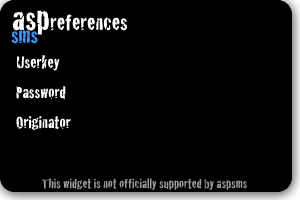
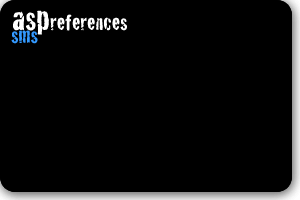
fixed different issues to work with leopard

diff --git a/aspsms.wdgt/aspsms.js b/aspsms.wdgt/aspsms.js
@@ -80,11 +80,11 @@ function updateCounter()
 	curr_left = curr_sms*max_len - len;
 	var lbl_elem = document.getElementById('num-left-label');
 	if (curr_sms > 0)
-	{
+    {
 		lbl_elem.innerHTML = curr_sms + ' SMS / ' + curr_left + ' left';
-	}
-	else
+	} else {
 		lbl_elem.innerHTML = 'Please enter a message';
+    }
 }
 
 /**
@@ -130,7 +130,7 @@ function send()
 	var msg_part = null;
 	var start = 0;
 	var done = 0;
-	var statusmsg = ''
+	var statusmsg = '';
 	
 	/* Show progress indicator */
 	document.getElementById('indicator').style.display='block';
@@ -138,59 +138,50 @@ function send()
 	rcp_elem.setAttribute("disabled",true);
 
 	/* Send messages */
-	/*for (var i = 0; i < curr_sms; i++)
-	{*/
-		msg_part = msg /*.substr(start,max_len);*/
-	
-		xmlhttp = new XMLHttpRequest();
-		xmlhttp.open("POST", "http://xml1.aspsms.com:5061/xmlsvr.asp", false);
- 		
- 		var xmltext = "<?xml version='1.0' encoding='ISO-8859-1'?>" +
-			"<aspsms>" +
-				"<Userkey>" + login + "</Userkey>" +
-				"<Password>" + passwd + "</Password>" +
-				"<Originator>" + origin + "</Originator>" +
-				"<AffiliateId>123415</AffiliateId>" +
-				"<Recipient>" +
-					"<PhoneNumber>" + to + "</PhoneNumber>" +
-				"</Recipient>" +
-				"<MessageData>" + encode(msg_part) + "</MessageData>" +
-				"<Action>SendTextSMS</Action>" +
-			"</aspsms>";
- 		
-		xmlhttp.setRequestHeader("Content-Type", "text/xml");
-		xmlhttp.send(xmltext);
-		
-		/*if (curr_sms > 1)
-		{
-			statusmsg = 'Sending message ' + (i+1) + '...';
-		}
-		else
-		{*/
-			statusmsg = 'Sending message...';
-		/*}*/
-		
-		while (xmlhttp.readyState != 4)
-		{
-			showMessage(statusmsg,true);
-		}
-		
-		var xmldoc = (new DOMParser()).parseFromString(xmlhttp.responseText,"text/xml");
-		var errorCode = xmldoc.getElementsByTagName("ErrorCode").item(0).firstChild.nodeValue;
-  		var errorDescription = xmldoc.getElementsByTagName("ErrorDescription").item(0).firstChild.nodeValue;
-		
-		if (errorCode == 1)
-		{
-			done++;
-		}
-		else
-		{
-			showError(errorDescription);
-			break;
-		}
-		
-		start += max_len;
-	/*}*/
+    msg_part = msg;
+
+    xmlhttp = new XMLHttpRequest();
+    xmlhttp.open("POST", "http://xml1.aspsms.com:5061/xmlsvr.asp", false);
+    
+    var xmltext = "<?xml version='1.0' encoding='ISO-8859-1'?>" +
+        "<aspsms>" +
+            "<Userkey>" + login + "</Userkey>" +
+            "<Password>" + passwd + "</Password>" +
+            "<Originator>" + origin + "</Originator>" +
+            "<AffiliateId>123415</AffiliateId>" +
+            "<Recipient>" +
+                "<PhoneNumber>" + to + "</PhoneNumber>" +
+            "</Recipient>" +
+            "<MessageData>" + encode(msg_part) + "</MessageData>" +
+            "<Action>SendTextSMS</Action>" +
+        "</aspsms>";
+    
+    xmlhttp.setRequestHeader("Content-Type", "text/xml");
+    xmlhttp.send(xmltext);
+    
+    statusmsg = 'Sending message...';
+    
+    while (xmlhttp.readyState != 4)
+    {
+        showMessage(statusmsg,true);
+    }
+    
+    var xmldoc = (new DOMParser()).parseFromString(xmlhttp.responseText,"text/xml");
+    var errorCode = xmldoc.getElementsByTagName("ErrorCode").item(0).firstChild.nodeValue;
+    var errorDescription = xmldoc.getElementsByTagName("ErrorDescription").item(0).firstChild.nodeValue;
+    
+    if (errorCode == 1)
+    {
+        done++;
+    }
+    else
+    {
+        showError(errorDescription);
+        return;
+    }
+    
+    start += max_len;
+
 	if (done < 1)
 	{
 		msg_elem.style.color = errorColor;
@@ -451,7 +442,7 @@ function ab_startSearch()
 	var results = searchForNumber(rcp_elem.value);
 	if (results.length > 0)
 	{
-		showMessage(results[0].name)
+		showMessage(results[0].name);
 		var number = results[0].number;
 		number = _strRemove(number,' ');
 		number = _strRemove(number,'(');
@@ -493,16 +484,17 @@ function searchForNumber(str)
 		{
 			showError("Addressbook error!",true);
 		}
-	}
-	else
+	} else {
 		return null;
+    }
 }
 
 function _turnOutputToNumbers(str)
 {
 	var array = new Array();
-	if (!str)
+	if (!str) {
 		return array;
+    }
 	
 	var lines = str.split("\n");
 	

diff --git a/aspsms.wdgt/aspsms.html b/aspsms.wdgt/aspsms.html
@@ -24,25 +24,25 @@
 	<body onload="init()">
 			<div id="front">
 				<div id="infoButton"></div>
-				<div class="label" id="recipients-label"><!-- Recipient --></div>
+				<div class="label" id="recipients-label">Recipient</div>
 				<input type="text" id="recipients"/>
 				<img src="ab-icon.png" id="ab-icon"/>
-				<div class="label" id="message-label"><!-- Message --></div>
+				<div class="label" id="message-label">Message</div>
 				<textarea name="textarea" id="message"></textarea>
 				<div class="small-label" id="num-left-label"></div>
 				<img id="indicator" src="Indicator.gif"/>
 				<div id="send"></div>
 			</div>
 			<div id="back" style="display: none">
-				<div class="label" id="username-label"><!-- Userkey --></div>
+				<div class="label" id="username-label">Userkey</div>
 				<input type="text" id="username"/>
-				<div class="label" id="password-label"><!-- Password --></div>
+				<div class="label" id="password-label">Password</div>
 				<input type="password" id="password"/>
-				<div class="label" id="originator-label"><!-- Originator --></div>
+				<div class="label" id="originator-label">Originator</div>
 				<input type="text" id="originator"/>
 				<div class="small-label" id="about">
 					No account? Visit <a href="javascript:widget.openURL('http://aspsms.com/');">aspsms.com</a>!<br/>
-					More <a href="javascript:widget.openURL('http://sisprocom.ch/widgets/aspsms/');">about this widget</a>.</div>
+					More <a href="javascript:widget.openURL('https://github.com/sspross/aspsms-widget');">about this widget</a>.</div>
 				<div id="done"></div>
 			</div>
 			<div id="error">Error</div>

diff --git a/aspsms.wdgt/aspsms.css b/aspsms.wdgt/aspsms.css
@@ -69,21 +69,21 @@ body
 {
 	color: white;
 	font-weight: bold;
-	font-family: Cracked, Arial, Helvetica, sans-serif;
+	font-family: Arial, Helvetica, sans-serif;
 	font-size: 12px;
 }
 
 #recipients-label
 {
 	position: absolute;
-	left: 12px;
+	left: 15px;
 	top: 52px;
 }
 
 #message-label
 {
 	position: absolute;
-	left: 12px;
+	left: 15px;
 	top: 70px;
 }
 
@@ -91,7 +91,6 @@ body
 {
 	/* font-weight: normal; */
 	font-size: 10px;
-	color: #555;
 }
 
 #num-left-label
@@ -181,7 +180,7 @@ body
 #about
 {
 	position: absolute;
-	top: 138px;
+	top: 144px;
 	left: 16px;
 	width: 250px;
 	line-height: 150%;
